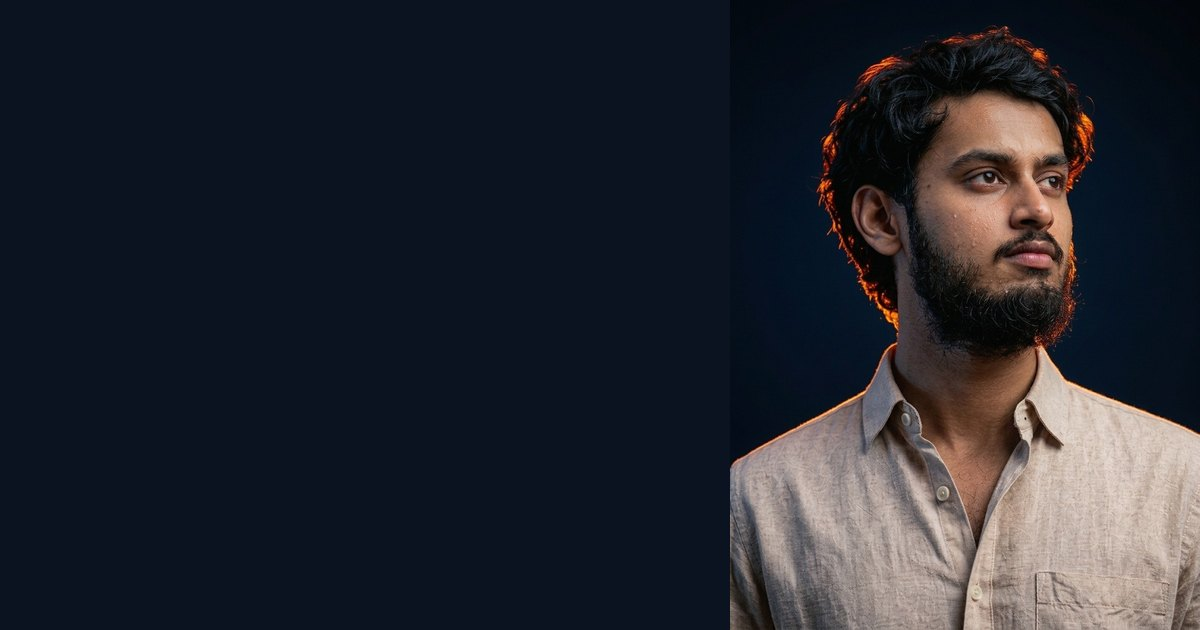
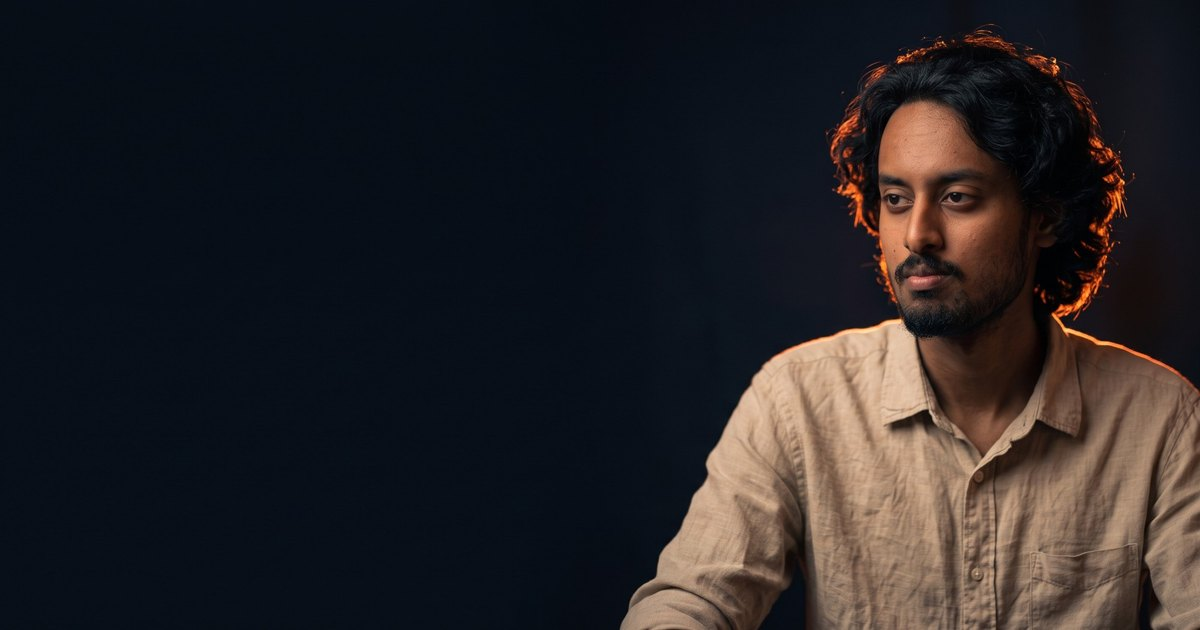
Use the consistent portrait set across the site; hero lens reveals the 'system' portrait
- Retire the two earlier portraits (different-looking faces) in favour of one
  consistent set: hero, system/wireframe twin, portrait, wide, desk
- Hero hover now reveals the aligned wireframe portrait (Story → System) with an
  iris-opening lens (@property --r), contrast boost and grid overlay
- About: cinematic full-bleed hero on the wide shot; 'most days' desk band
- New OG image from the wide shot; avatar on contact; responsive srcsets

Claude-Session: https://claude.ai/code/session_01XgtFnTfiNJnhQRqGwbRCXY

Changed region(s): [[0.4933, 0.0302, 1.0, 1.0]]

diff --git a/src/styles/pages.css b/src/styles/pages.css
@@ -6,12 +6,13 @@
 /* ---------- portrait: focus-pull hover ---------- */
 .portrait { flex: 1 1 320px; max-width: 460px; width: 100%; display: flex; flex-direction: column; gap: 12px; }
 .portrait__frame {
-  --x: 50%; --y: 40%; --r: 1600px; --rx: 0deg; --ry: 0deg; --inset: 22px; --shift-x: 0px; --shift-y: 0px;
-  position: relative; aspect-ratio: 896 / 1200; border-radius: var(--radius-l); overflow: hidden; background: var(--navy);
+  --x: 50%; --y: 40%; --r: 0px; --rx: 0deg; --ry: 0deg; --inset: 22px; --shift-x: 0px; --shift-y: 0px;
+  position: relative; aspect-ratio: 1000 / 1241; border-radius: var(--radius-l); overflow: hidden; background: var(--navy);
   transform: perspective(1000px) rotateX(var(--rx)) rotateY(var(--ry));
   box-shadow: 0 14px 34px -18px rgba(14, 15, 18, 0.35);
-  transition: transform 500ms var(--ease-out), box-shadow 500ms var(--ease-out);
+  transition: transform 500ms var(--ease-out), box-shadow 500ms var(--ease-out), --r 550ms var(--ease-out);
 }
+@property --r { syntax: '<length>'; inherits: true; initial-value: 0px; }
 .portrait__img {
   position: absolute; inset: 0; width: 100%; height: 100%; object-fit: cover;
   transform: translate(var(--shift-x), var(--shift-y)) scale(1.03);
@@ -53,8 +54,8 @@
 .portrait__hud--bottom { bottom: 44px; }
 .portrait__caption { display: flex; justify-content: space-between; gap: 12px; font-family: var(--font-mono); font-size: 12px; color: var(--graphite); }
 
-.portrait.is-active .portrait__frame { --r: 150px; --inset: 12px; cursor: none; box-shadow: 0 40px 80px -30px rgba(14, 15, 18, 0.5); }
-.portrait.is-active .portrait__img--base { filter: grayscale(1) brightness(0.5) contrast(1.1) blur(2px); }
+.portrait.is-active .portrait__frame { --r: 170px; --inset: 12px; cursor: none; box-shadow: 0 40px 80px -30px rgba(14, 15, 18, 0.5); }
+.portrait.is-active .portrait__img--base { filter: brightness(0.62) saturate(0.85); }
 .portrait.is-active .portrait__img { transform: translate(var(--shift-x), var(--shift-y)) scale(1.08); }
 .portrait.is-active .portrait__glow,
 .portrait.is-active .portrait__ring,
@@ -272,4 +273,35 @@ article.row { cursor: default; }
   .logos { display: grid; grid-template-columns: repeat(2, minmax(0, 1fr)); gap: 12px 20px; font-size: 18px; }
   .logos .eyebrow { grid-column: 1 / -1; }
   .portrait__caption { font-size: 11px; }
+}
+
+/* ---------- about: cinematic hero + desk band ---------- */
+.about-hero { position: relative; overflow: hidden; background: var(--navy); color: #fff; }
+.about-hero__bg img { position: absolute; inset: 0; width: 100%; height: 100%; object-fit: cover; object-position: 78% 30%; }
+.about-hero::after { content: ""; position: absolute; inset: 0; background: linear-gradient(90deg, rgba(11, 18, 32, 0.92) 0%, rgba(11, 18, 32, 0.6) 42%, rgba(11, 18, 32, 0) 70%); }
+.about-hero__inner { position: relative; z-index: 1; min-height: min(86vh, 760px); display: flex; flex-direction: column; justify-content: flex-end; gap: 32px; padding-block: clamp(96px, 12vw, 160px) 40px; }
+.about-hero__copy { max-width: 640px; }
+.about-hero .display { font-size: clamp(44px, 6vw, 92px); }
+.about-hero .dim { color: #8d93a0; }
+.about-hero .lede { color: #c5c8ce; }
+.about-hero__caption { color: #8d93a0; }
+@media (max-width: 760px) {
+  .about-hero__inner { min-height: 0; padding-top: 58vw; }
+  .about-hero__bg img { height: 64vw; object-position: 82% 20%; }
+  .about-hero::after { background: linear-gradient(180deg, rgba(11, 18, 32, 0) 30vw, var(--navy) 62vw); }
+}
+.desk__media { aspect-ratio: 1600 / 1194; }
+
+/* system lens: make the wireframe read at any size */
+.portrait__img--lens { filter: contrast(1.3) saturate(1.25) brightness(1.08); }
+.portrait__grid {
+  position: absolute; inset: 0; pointer-events: none; mix-blend-mode: screen;
+  background-image:
+    radial-gradient(rgba(255, 138, 76, 0.9) 0.9px, transparent 1.3px),
+    linear-gradient(rgba(255, 138, 76, 0.16) 1px, transparent 1px),
+    linear-gradient(90deg, rgba(255, 138, 76, 0.16) 1px, transparent 1px);
+  background-size: 8px 8px, 32px 32px, 32px 32px;
+  -webkit-mask-image: radial-gradient(circle var(--r) at var(--x) var(--y), #000 40%, transparent 100%);
+  mask-image: radial-gradient(circle var(--r) at var(--x) var(--y), #000 40%, transparent 100%);
+  opacity: 0.55;
 }

diff --git a/index.html b/index.html
@@ -47,15 +47,16 @@
 
       <figure class="portrait" data-portrait>
         <div class="portrait__frame" data-portrait-frame>
-          <img class="portrait__img portrait__img--base" src="/images/portrait-hero.webp" srcset="/images/portrait-hero-600.webp 600w, /images/portrait-hero.webp 896w" sizes="(max-width: 760px) 92vw, 460px" alt="" width="896" height="1200" fetchpriority="high" aria-hidden="true">
-          <img class="portrait__img portrait__img--lens" src="/images/portrait-hero.webp" srcset="/images/portrait-hero-600.webp 600w, /images/portrait-hero.webp 896w" sizes="(max-width: 760px) 92vw, 460px" alt="Shubham Yadav, rim-lit studio portrait" width="896" height="1200" fetchpriority="high">
+          <img class="portrait__img portrait__img--base" src="/images/hero.webp" srcset="/images/hero-640.webp 640w, /images/hero.webp 1000w" sizes="(max-width: 760px) 92vw, 460px" alt="Shubham Yadav, rim-lit studio portrait" width="1000" height="1241" fetchpriority="high">
+          <img class="portrait__img portrait__img--lens" src="/images/hero-system.webp" srcset="/images/hero-system-640.webp 640w, /images/hero-system.webp 1000w" sizes="(max-width: 760px) 92vw, 920px" alt="" width="1000" height="1241" loading="lazy" aria-hidden="true">
+          <span class="portrait__grid" aria-hidden="true"></span>
           <span class="portrait__glow" aria-hidden="true"></span>
-          <span class="portrait__ring" aria-hidden="true"><span>Focus</span></span>
+          <span class="portrait__ring" aria-hidden="true"><span>System</span></span>
           <span class="portrait__corners" aria-hidden="true"><i></i><i></i><i></i><i></i></span>
-          <span class="portrait__hud portrait__hud--top" aria-hidden="true"><span class="rec rec--on-dark"><span class="rec__dot"></span>REC <span data-timecode>00:00:12:08</span></span><span>50mm · f/1.4</span></span>
+          <span class="portrait__hud portrait__hud--top" aria-hidden="true"><span class="rec rec--on-dark"><span class="rec__dot"></span>REC <span data-timecode>00:00:12:08</span></span><span>Story → System</span></span>
           <span class="portrait__hud portrait__hud--bottom" aria-hidden="true"><span data-coords>X 0.50 Y 0.40</span><span>SY · Frame 0001</span></span>
         </div>
-        <figcaption class="portrait__caption"><span>{{site.name}} — {{site.roles}}</span><span class="portrait__hint" data-portrait-hint>Hover to pull focus</span></figcaption>
+        <figcaption class="portrait__caption"><span>{{site.name}} · Frame 0001</span><span class="portrait__hint" data-portrait-hint>Hover to see the system</span></figcaption>
       </figure>
     </section>
 
@@ -146,7 +147,7 @@
     <section class="band band--line">
       <div class="wrap section about-teaser">
         <figure class="about-teaser__img media media--frame" data-unclip>
-          <img src="/images/portrait-about.webp" alt="Portrait of Shubham Yadav" width="900" height="1124" loading="lazy" decoding="async">
+          <img src="/images/portrait.webp" alt="Portrait of Shubham Yadav" width="900" height="1117" loading="lazy" decoding="async">
         </figure>
         <div class="stack-m">
           <span class="eyebrow eyebrow--accent">SC.04 — About</span>

diff --git a/about/index.html b/about/index.html
@@ -13,18 +13,19 @@
   <!-- @include partials/header.html active=about -->
 
   <main id="main">
-    <section class="wrap about-hero">
-      <div class="stack-m">
-        <span class="eyebrow eyebrow--accent">SC.04 — About</span>
-        <h1 class="display" data-split>A filmmaker who codes. <span class="dim">A founder who tells stories.</span></h1>
-        <p class="lede" data-reveal>For six years I've lived at the seam between narrative and technology. The camera taught me how people feel. The codebase taught me how things work. My job is building in the overlap — so your story and your product never drift apart.</p>
-      </div>
-      <figure class="about-hero__img stack-xs">
-        <div class="media media--frame" data-unclip>
-          <img src="/images/portrait-about.webp" alt="Portrait of Shubham Yadav" width="900" height="1124" fetchpriority="high">
+    <section class="about-hero">
+      <picture class="about-hero__bg" aria-hidden="true">
+        <source media="(max-width: 760px)" srcset="/images/wide-1200.webp">
+        <img src="/images/wide.webp" alt="" width="2000" height="1056" fetchpriority="high">
+      </picture>
+      <div class="wrap about-hero__inner">
+        <div class="stack-m about-hero__copy">
+          <span class="eyebrow eyebrow--warm">SC.04 — About</span>
+          <h1 class="display" data-split>A filmmaker who codes. <span class="dim">A founder who tells stories.</span></h1>
+          <p class="lede" data-reveal>For six years I've lived at the seam between narrative and technology. The camera taught me how people feel. The codebase taught me how things work. My job is building in the overlap — so your story and your product never drift apart.</p>
         </div>
-        <figcaption class="caption"><span>{{site.name}}</span><span>Frame 0002</span></figcaption>
-      </figure>
+        <span class="caption about-hero__caption"><span>{{site.name}}</span><span>Frame 0002</span></span>
+      </div>
     </section>
 
     <section class="band band--line">
@@ -54,6 +55,15 @@
           </div>
         </article>
       </div>
+    </section>
+
+    <section class="wrap section desk">
+      <figure class="stack-xs">
+        <div class="media media--frame desk__media" data-unclip>
+          <img src="/images/desk.webp" srcset="/images/desk-900.webp 900w, /images/desk.webp 1600w" sizes="(max-width: 1280px) 100vw, 1184px" alt="Shubham at his desk: a colour-grading timeline on one monitor, code on the other" width="1600" height="1194" loading="lazy" decoding="async">
+        </div>
+        <figcaption class="caption"><span>Grade on the left, code on the right.</span><span>Most days look like this.</span></figcaption>
+      </figure>
     </section>
 
     <section class="band band--ink">

diff --git a/src/js/portrait.js b/src/js/portrait.js
@@ -1,6 +1,6 @@
-// Portrait "focus pull": on hover the frame drops to soft monochrome, a sharp
-// full-colour lens follows the pointer, the rim light tracks it, the frame tilts,
-// the viewfinder brackets snap in and a REC timecode runs at 24 fps.
+// Portrait "Story → System": on hover a lens follows the pointer and reveals the
+// wireframe/code version of the same portrait underneath (aligned 1:1), the rim
+// light tracks it, the frame tilts, the brackets snap in and a REC timecode runs.
 // Mouse/pen only — touch keeps the plain colour portrait.
 export function initPortrait(root) {
   if (!root) return;
@@ -44,7 +44,7 @@ export function initPortrait(root) {
   frame.addEventListener('pointerenter', (e) => {
     if (e.pointerType === 'touch') return;
     root.classList.add('is-active');
-    hintEl.textContent = '● Recording';
+    hintEl.textContent = '● System view';
     point(e);
     cancelAnimationFrame(raf);
     raf = requestAnimationFrame(tick);
@@ -54,7 +54,7 @@ export function initPortrait(root) {
   });
   frame.addEventListener('pointerleave', () => {
     root.classList.remove('is-active');
-    hintEl.textContent = 'Hover to pull focus';
+    hintEl.textContent = 'Hover to see the system';
     cancelAnimationFrame(raf);
     ['--rx', '--ry', '--shift-x', '--shift-y', '--x', '--y'].forEach((p) => frame.style.removeProperty(p));
   });

diff --git a/contact/index.html b/contact/index.html
@@ -19,7 +19,7 @@
         <h1 class="display display--m" data-split>Tell me what you're building.</h1>
         <p class="lede" data-reveal>Two minutes on the form is all it takes. You'll hear back within {{site.responseTime}} with honest next steps — even if I'm not the right fit.</p>
         <figure class="me-card" data-reveal>
-          <img src="/images/portrait-square.webp" alt="Shubham Yadav" width="480" height="480" loading="lazy">
+          <img src="/images/avatar.webp" alt="Shubham Yadav" width="320" height="320" loading="lazy">
           <figcaption><strong>You'll talk to me, not an account manager.</strong><span>Shubham — filmmaker, founder, tech lead</span></figcaption>
         </figure>
         <div class="contact__lines" data-reveal>
